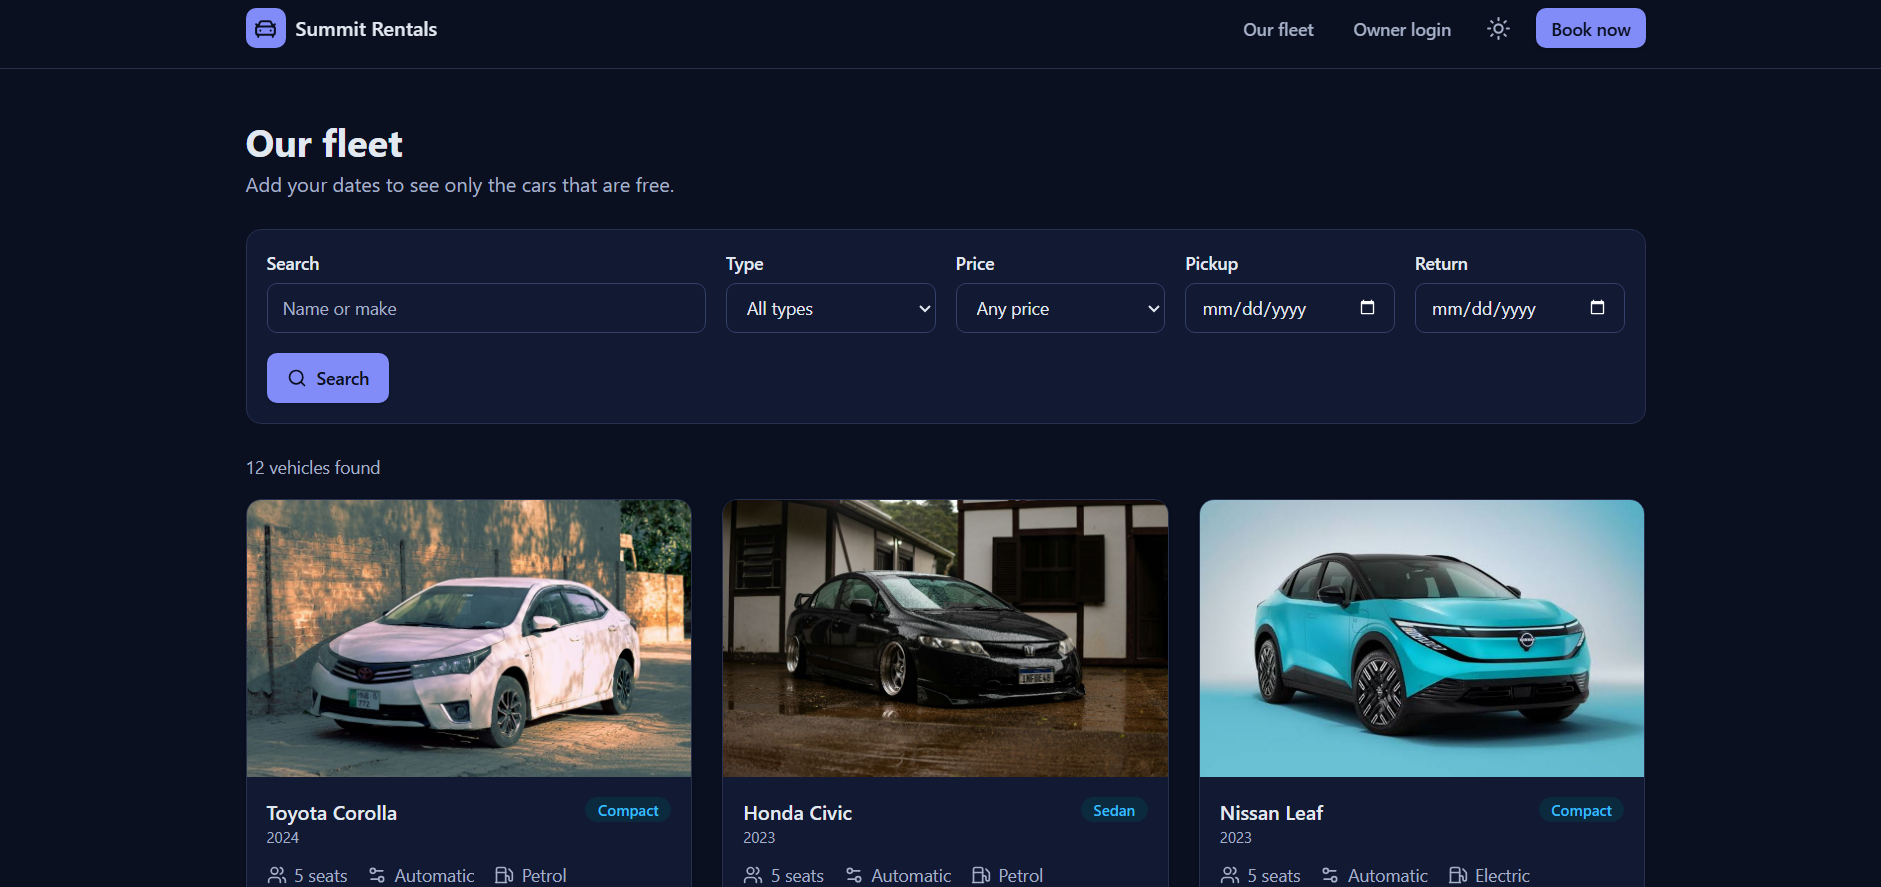
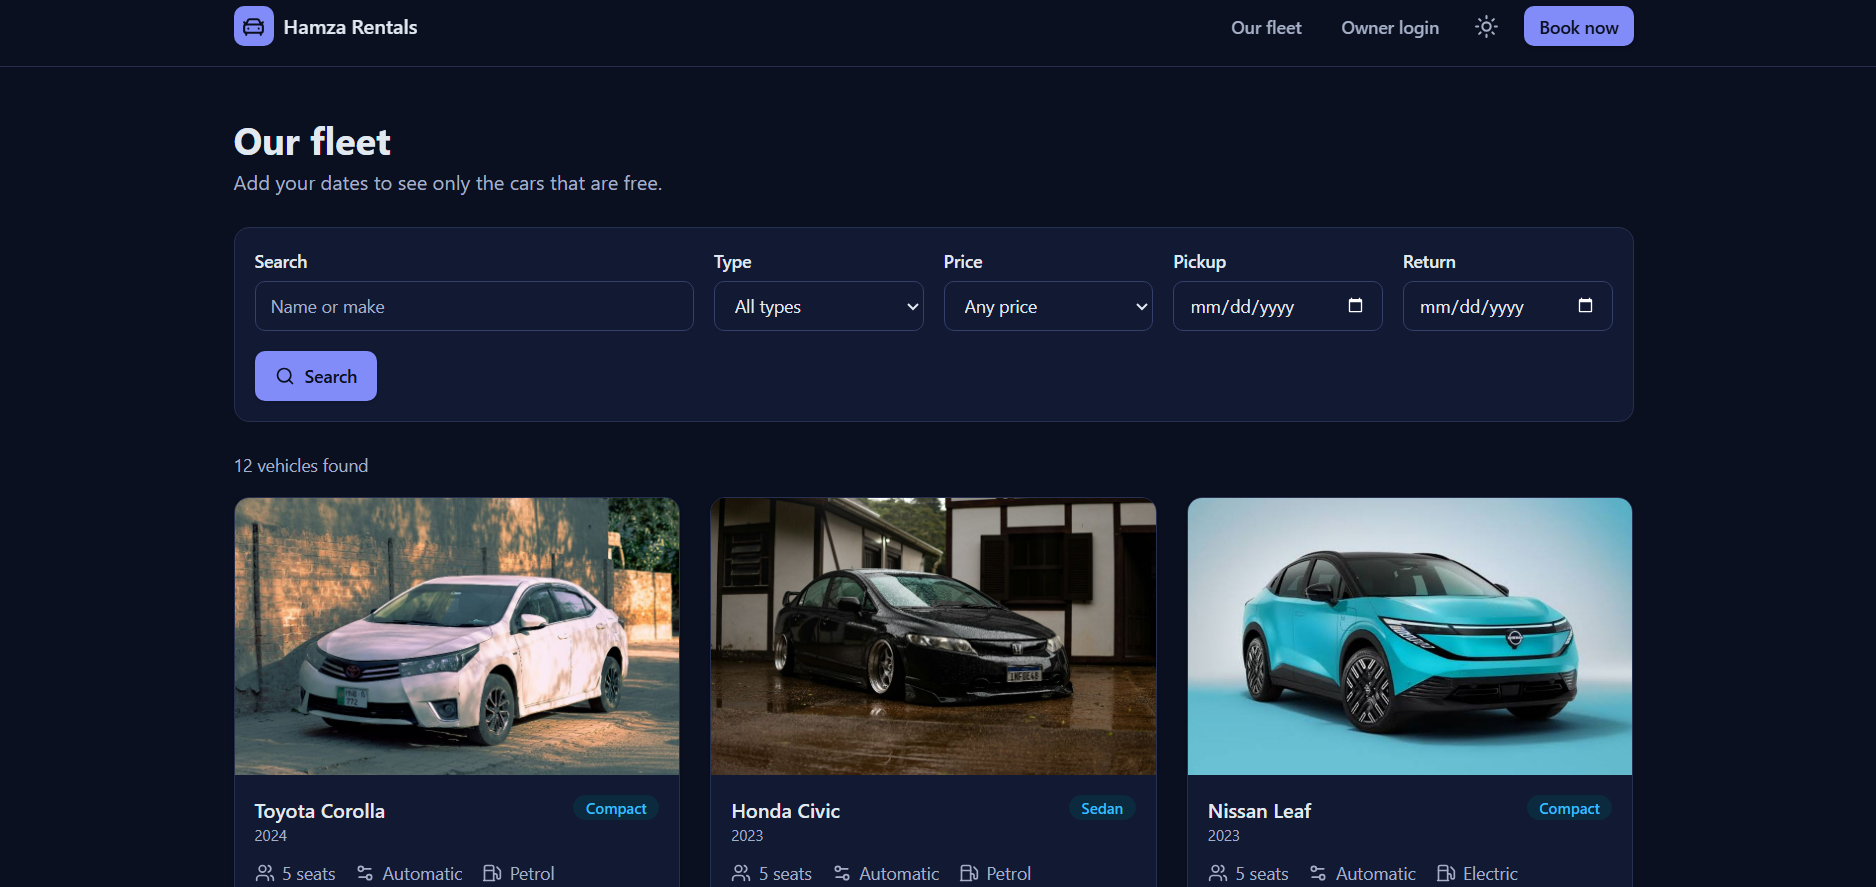
Update screenshots

diff --git a/README.md b/README.md
@@ -21,23 +21,33 @@ A booking and operations app for a small car rental business. Customers pick a c
 
 ### Car page with availability calendar
 
-![Car page with availability calendar](docs/screenshots/car-page.png)
+![Car page with availability calendar](docs/screenshots/booking%20dates.png)
 
 ### Booking flow
 
-![Booking review and pay step](docs/screenshots/booking.png)
+![Booking review and pay step1](docs/screenshots/booking%20step1.png)
+
+![Booking review and pay step2](docs/screenshots/booking%20step2.png)
+
+![Booking review and pay step3](docs/screenshots/booking%20step3.png)
+
+![Booking review and pay step4](docs/screenshots/booking%20last.png)
 
 ### Owner dashboard
 
-![Dashboard overview with revenue, occupancy and charts](docs/screenshots/overview.png)
+![Dashboard overview with revenue, occupancy and charts](docs/screenshots/dashboad.png)
 
 ### Bookings table
 
-![Bookings table with search, filters and actions](docs/screenshots/bookings-table.png)
+![Bookings table with search, filters and actions](docs/screenshots/booking%20show.png)
 
 ### Fleet table
 
-![Fleet table](docs/screenshots/fleet-table.png)
+![Fleet table](docs/screenshots/fleet%20add%20list.png)
+
+### Setting
+
+![Setting](docs/screenshots/setting.png)
 
 This is a portfolio project. Payments run in test mode and no real money moves. The demo data is made up, and the owner can reset it from Settings.
 
@@ -59,70 +69,23 @@ This is a portfolio project. Payments run in test mode and no real money moves. 
 
 ## Tech stack
 
-| Area         | Choice                                                                                                        |
-| ------------ | ------------------------------------------------------------------------------------------------------------- |
-| Framework    | Next.js 16 (App Router), React 19, TypeScript in strict mode                                                  |
-| Styling      | Tailwind CSS 4 with colour tokens in `globals.css` (light and dark)                                           |
-| Client state | Redux Toolkit for the booking draft                                                                           |
-| Server state | TanStack Query for bookings, cars and analytics, with optimistic updates                                      |
-| Forms        | React Hook Form with Zod schemas shared by the form and the API                                               |
-| API          | REST route handlers, plus one GraphQL endpoint for the dashboard numbers                                      |
-| Database     | PostgreSQL on Supabase, plain SQL through `postgres.js`. An in-memory version is used when no database is set |
-| Charts       | Recharts                                                                                                      |
-| Tests        | Vitest and React Testing Library, Playwright, axe accessibility scan                                          |
-| Delivery     | GitHub Actions CI, Vercel, Supabase (both on free plans)                                                      |
+| Area         | Choice                                                                   |
+| ------------ | ------------------------------------------------------------------------ |
+| Framework    | Next.js 16 (App Router), React 19, TypeScript in strict mode             |
+| Styling      | Tailwind CSS 4 with colour tokens in `globals.css` (light and dark)      |
+| Client state | Redux Toolkit for the booking draft                                      |
+| Server state | TanStack Query for bookings, cars and analytics, with optimistic updates |
+| Forms        | React Hook Form with Zod schemas shared by the form and the API          |
+| API          | REST route handlers, plus one GraphQL endpoint for the dashboard numbers |
+| Database     | PostgreSQL on Supabase                                                   |
+| Charts       | Recharts                                                                 |
+| Tests        | Vitest and React Testing Library, Playwright, axe accessibility scan     |
+| Delivery     | GitHub Actions CI, Vercel, Supabase (both on free plans)                 |
 
 ## Decisions worth knowing
 
-| Decision                                            | Why                                                                                                                                                                    |
-| --------------------------------------------------- | ---------------------------------------------------------------------------------------------------------------------------------------------------------------------- |
-| Public pages are server components                  | The car list and detail pages arrive as finished HTML, so first load is fast and search engines can read them. Filters live in the URL, so results can be shared.      |
-| Redux for the draft, TanStack Query for server data | The draft only exists in the browser. Bookings and cars come from the server and need caching, loading states and error states.                                        |
-| Double-booking blocked in the database              | `supabase/schema.sql` has an exclusion constraint on vehicle and date range. The service checks first to give a friendly message, but the database is the final guard. |
-| One repository interface, two implementations       | `src/server/db/repository.ts` is implemented by an in-memory store and a PostgreSQL store. The same test suite runs against both.                                      |
-| Business rules in services                          | Pages and components call `src/server/services`. Rules like "no double booking" or "a completed booking can't be cancelled" live in one place.                         |
-| Dates are `YYYY-MM-DD` text                         | A rental only cares about days, so there are no time zone bugs and the dates sort correctly.                                                                           |
-| Back-to-back bookings allowed                       | The return day is free for the next customer, as in a real rental business.                                                                                            |
-| Native `<dialog>` for modals                        | The browser handles focus trapping and the Escape key.                                                                                                                 |
-
-Good places to start reading: `src/server/services/bookingService.ts`, `supabase/schema.sql` and `src/hooks/useBookingStatusMutation.ts`.
-
-## Run it locally
-
-You need [Node.js](https://nodejs.org) 20.9 or newer.
-
-```bash
-npm install
-npm run dev
-```
-
-### Save data in a real database
-
-1. Create a free project at [supabase.com](https://supabase.com).
-2. Copy the **Transaction pooler** connection string (port 6543) and put your password in it.
-3. Copy `.env.example` to `.env.local` and set `DATABASE_URL`.
-4. Run `npm run dev`. On the first request the app creates its tables and loads the demo data. It uses a database lock, so this happens once even if several servers start together.
-
-To try database mode without an account, run `npm run db:local` in a second terminal. It starts a local PostgreSQL, and the connection string to use is in `.env.example`.
-
-## Deploying
-
-The full steps are in [docs/DEPLOY.md](docs/DEPLOY.md). In short: push to GitHub, create a Supabase project, import the repo in Vercel, and set `DATABASE_URL`, `AUTH_SECRET` (32 or more random characters) and `NEXT_PUBLIC_SITE_URL`. Open `/api/health` afterwards. It should show `{"ok":true,"database":"postgres",...}`.
-
-On Vercel the database pool is set to one connection per instance, so many instances cannot use up Supabase's connection limit. `DATABASE_POOL_MAX` overrides that.
-
-## Quality checks
-
-| Command                                | What it runs                                                                                                                                                                       |
-| -------------------------------------- | ---------------------------------------------------------------------------------------------------------------------------------------------------------------------------------- |
-| `npm test`                             | 95 unit, component and data tests. The data tests run on the in-memory store and on a real PostgreSQL engine (PGlite)                                                              |
-| `npm run test:e2e`                     | 11 Playwright tests: a customer books and pays, a declined card, the owner flows, and an accessibility scan. Run `npm run build` first, and `npx playwright install chromium` once |
-| `npm run test:a11y`                    | axe scan (WCAG 2.1 A and AA) of the main screens in light and dark mode                                                                                                            |
-| `npm run smoke`                        | 45 checks over HTTP against a running server                                                                                                                                       |
-| `npm run lint` and `npm run typecheck` | ESLint and TypeScript                                                                                                                                                              |
-| `npm run check`                        | Lint, typecheck, tests and build in one go. CI runs the same on every push                                                                                                         |
-
-Lighthouse on the production build (mobile settings, run on my own machine, so expect a few points of variation): accessibility, best practices and SEO were 100 on the pages I measured, and performance was between 86 and 98.
+| Decision | Why |
+| -------- | --- |
 
 ## Project layout
 
@@ -141,7 +104,5 @@ src/
   store/          Redux store and the booking draft
 e2e/              Playwright tests
 supabase/         schema.sql: tables, constraints and row level security
-docs/             DEPLOY.md, ROADMAP.md
+docs/             screenshot
 ```
-
-The full list is in [docs/ROADMAP.md](docs/ROADMAP.md).
